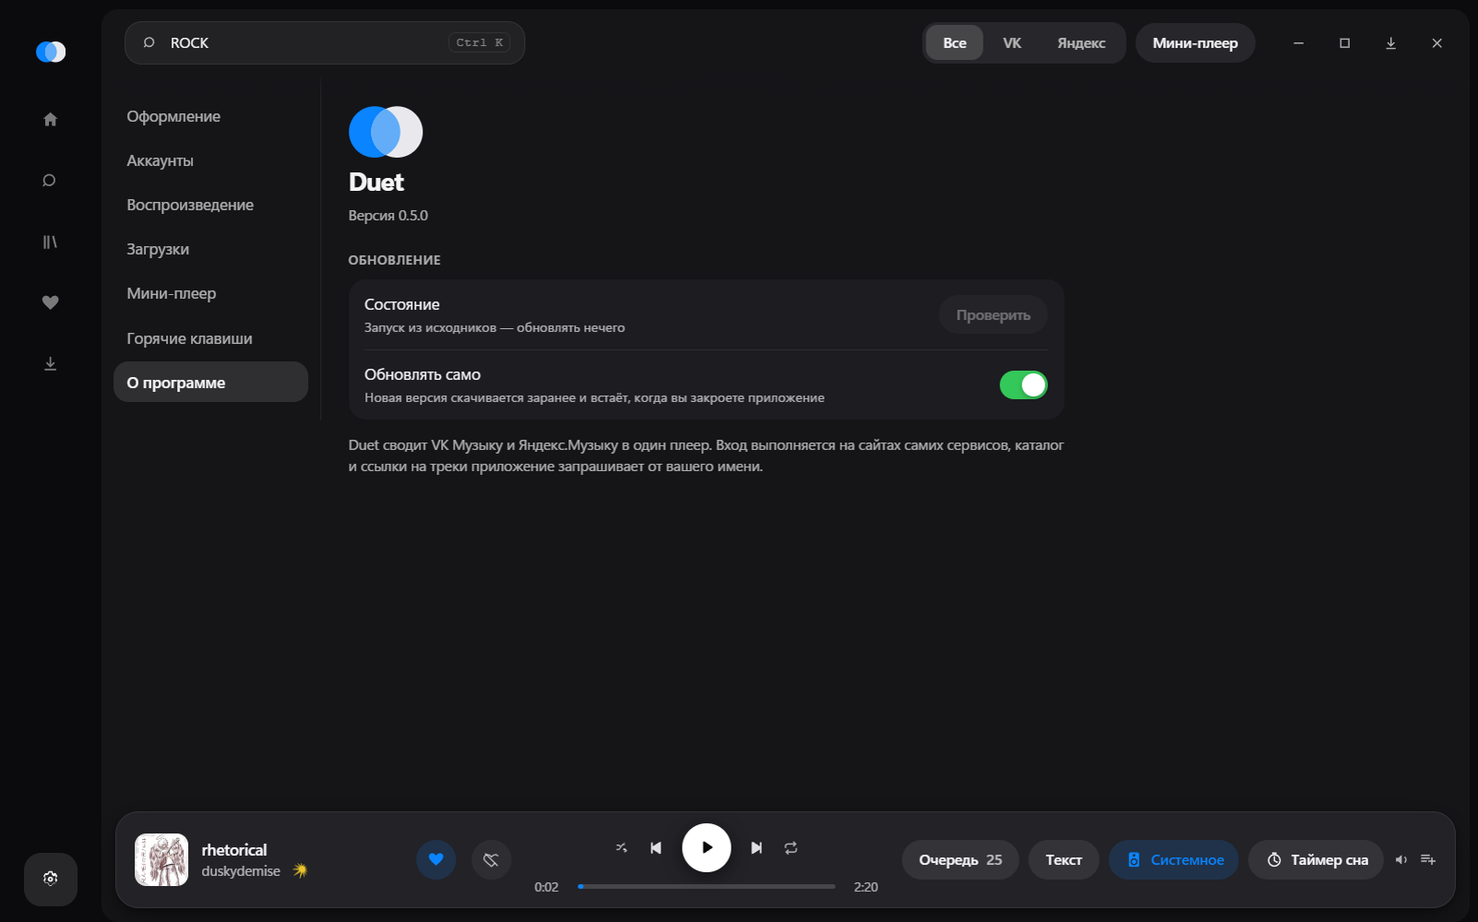
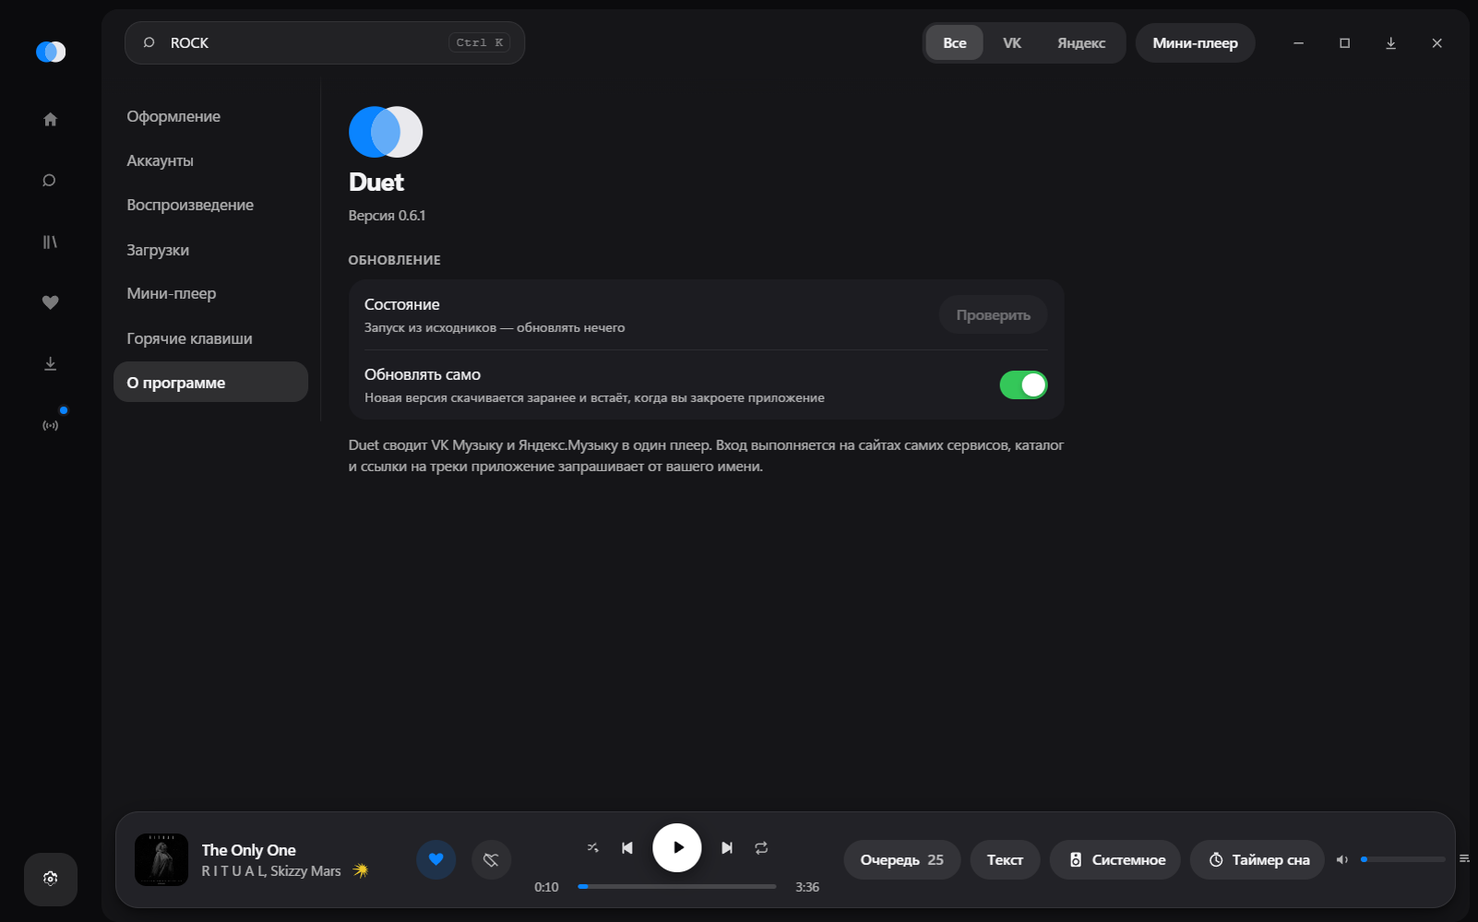
README: новые главные, шторка и язычок, комната Jam
Снимки пересняты: на прежних была старая главная и четыре мини-плеера.
Код приглашения и пропуск на снимках выдуманные, а комната Jam открыта
на своём ретрансляторе — README публичный.

diff --git a/README.md b/README.md
@@ -18,6 +18,8 @@
   сервисов. Начинается с неё же и продолжается, уходя всё дальше.
 - **Настройка волны** у Яндекса — настроение, язык и подбор. Варианты берутся
   у самой станции, а не записаны в приложении.
+- **Шесть видов главной** — от «Волны во весь экран» с веером обложек до
+  «Дашборда», где всё видно сразу, и «Дуэта», где станцию выбирают два круга.
 - **Свой плеер.** Очередь, перемешивание, повтор, перетаскивание треков —
   очередь одна на оба сервиса и не сбрасывается при переключении экранов.
 - **Текст песни** с подсветкой строки — слова ищутся у обоих сервисов и в
@@ -28,19 +30,49 @@
 - **«Нравится» и «не нравится»** у обоих сервисов.
 - **Скачивание** с обоих сервисов, в том числе автоматическое, с лимитом места
   и выбором папки. Скачанное играет без сети.
-- **Мини-плеер поверх окон** — четыре вида, с настройкой позиции, прозрачности,
-  раскрытия по наведению и того, что делает двойной щелчок.
+- **Мини-плеер поверх окон** — шесть видов, включая шторку у верхнего края
+  экрана и язычок у бокового, с настройкой позиции, прозрачности, раскрытия по
+  наведению и того, что делает двойной щелчок. По желанию держится и над
+  полноэкранными играми и видео.
 - **Оформление под себя** — тема, цвет акцента, плотность списков, количество
   движения, вид главной и вид плеера.
 - **Свои плейлисты** — единственное место, где треки VK и Яндекса лежат в одном
-  списке: сервисы чужие треки не принимают.
+  списке: сервисы чужие треки не принимают. «Похожее» сохраняется в такой
+  плейлист одной кнопкой.
 - **Слушать вместе** — приглашение по ссылке: второй слушатель подхватывает ваш
   трек с вашей секунды и идёт следом.
-- **Duet Jam** — общая сессия по второй, отдельной ссылке: участники сами
-  добавляют треки в очередь и переключают. Ссылку можно сменить одной кнопкой.
+- **Duet Jam** — общая комната по второй, отдельной ссылке: участники
+  добавляют треки, переставляют и убирают их из очереди и переключают — сколько
+  разрешит ведущий. Видно, кто в комнате и кто что предложил. Ссылку можно
+  сменить одной кнопкой.
 - **Обновление с GitHub** — само, при выходе из приложения.
 - Таймер сна (с усыплением компьютера), выбор устройства вывода, глобальные
-  горячие клавиши, автозапуск, статус в Discord.
+  горячие клавиши, автозапуск, статус в Discord (выключается).
+
+## Главная
+
+Шесть видов на выбор. По умолчанию — **«Волна во весь экран»** (снимок в самом
+начале): станция занимает первый экран, играющая обложка лежит веером с двумя
+следующими, а под кнопками — что заиграет дальше.
+
+<table>
+  <tr>
+    <td width="50%" valign="top">
+      <img src="docs/screens/home-dash.png" alt="Главная: дашборд" width="100%"><br>
+      <b>Дашборд</b> — всё сразу: волна, что играет и что дальше, избранное,
+      плейлисты и скачанное плитками.
+    </td>
+    <td width="50%" valign="top">
+      <img src="docs/screens/home-duet.png" alt="Главная: дуэт" width="100%"><br>
+      <b>Дуэт</b> — станцию выбирают два круга сервисов, а «Обе» — их
+      пересечение.
+    </td>
+  </tr>
+</table>
+
+Ещё три — «Спокойный», «Обложка во весь экран» и «Списком» — для тех, кому
+крупная волна мешает или, наоборот, мала. На узком окне круги «Дуэта» не
+уезжают под текст, а уменьшаются вместе с окном.
 
 ## Библиотека
 
@@ -53,6 +85,16 @@
 скачивание, сердечко. Значок сервиса показывает, откуда трек, а фильтр в
 титульной строке оставляет на экране только VK или только Яндекс — сразу на
 всех экранах, а не на том, где его переключили.
+
+Обход фонотеки сверяется с тем, сколько треков насчитал сам сервис. Если
+какая-то страница не пришла, прежний список остаётся на месте: неполный
+список, принятый за полный, хуже старого — лайки из него молча пропадали бы и
+после перезапуска. Кнопка «Обновить» рядом с заголовком перечитывает оба
+сервиса заново, а раз в четверть часа Duet сам спрашивает их, не остался ли
+список неполным, — и в сеть идёт, только если остался.
+
+Плейлист без своей обложки показывается обложкой первого трека — так их
+проще различать в сетке, чем по одинаковым заглушкам.
 
 ## Поиск
 
@@ -94,7 +136,8 @@
 ## Оформление
 
 Тема — светлая, тёмная или вслед за Windows. Меняется сразу и в мини-плеере
-тоже.
+тоже. В светлой теме волна на главной — не тёмная плита, а бумага,
+подкрашенная обложкой.
 
 ![Светлая тема](docs/screens/home-light.png)
 
@@ -153,7 +196,28 @@
       <b>Обложка</b> — почти одна картинка, подпись поверх неё.
     </td>
   </tr>
+  <tr>
+    <td valign="top">
+      <img src="docs/screens/mini-notch.png" alt="Мини-плеер: шторка" width="100%"><br>
+      <b>Шторка</b> — полоска у верхнего края экрана. Наведёшь — раскрывается в
+      плеер; сменится трек — на пару секунд выглядывает строкой «что заиграло».
+    </td>
+    <td valign="top">
+      <img src="docs/screens/mini-side.png" alt="Мини-плеер: язычок" width="34%"><br>
+      <b>Язычок</b> — то же у левого или правого края, вертикально и с
+      громкостью.
+    </td>
+  </tr>
 </table>
+
+Шторку и язычок нельзя утащить — они срастаются с краем экрана. Пока они
+свёрнуты, мышь проходит сквозь них насквозь: полоска лежит над краем чужого
+окна, над его заголовком и полосой прокрутки, и не должна их заслонять.
+
+Если плиту перекрывает игра или видео во весь экран, включите «Поверх
+полноэкранных приложений»: Duet будет поднимать мини-плеер обратно, не забирая
+фокус. Игру в эксклюзивном полноэкранном режиме не перекрывает ничто — у неё
+стоит выбрать «окно без рамки».
 
 ![Настройки мини-плеера](docs/screens/settings-mini.png)
 
@@ -208,10 +272,10 @@
 восстанавливает поток и говорит об этом, а сдаётся только через две минуты
 безуспешных попыток.
 
-У гостя перелистывание отключено — очередь чужая, и «следующий» сбивал бы с
-толку. Его пауза означает «подключиться заново»: чаще всего её жмут именно
-тогда, когда звук разошёлся. Следование прекращается, когда гость включает
-что-то своё.
+У гостя по обычной ссылке перелистывание отключено — очередь чужая, и
+«следующий» сбивал бы с толку. Его пауза означает «подключиться заново»: чаще
+всего её жмут именно тогда, когда звук разошёлся. Следование прекращается,
+когда гость включает что-то своё.
 
 ## Duet Jam
 
@@ -229,6 +293,28 @@
 бы нечем. «Сменить ссылку» выдаёт новый пропуск: прежние ссылки участников
 перестают работать сразу, а слушатели остаются на месте и музыка не прерывается.
 
+У сессии свой экран — комната.
+
+![Duet Jam](docs/screens/jam.png)
+
+Сверху — кто в комнате и что играет, слева — ссылки и права, справа — общая
+очередь с подписью, кто что предложил. Её перетаскивают мышью (или Alt+↑↓) и
+чистят крестиком. Ниже — лента «Что происходит»: кто пришёл, ушёл, добавил,
+переставил.
+
+Что можно участникам, решает ведущий двумя переключателями: переключать треки
+и менять очередь. Добавлять можно всегда — ради этого ссылку участника и дают.
+
+Ретранслятор знает только, сколько человек подключено, но не кто они. Поэтому
+участник представляется сам: называет имя, войдя, и потом раз в полминуты;
+кто замолчал на 75 секунд, считается ушедшим, даже если не успел попрощаться.
+Слушатели по обычной ссылке ничего не шлют — права голоса у них нет, — и в
+комнате видны числом «+N».
+
+Лента хранит смысл, а не готовую фразу: ведущий читает «Вы добавили»,
+участник — «Ведущий добавил», а про других — «Маша предлагает». Фразу
+собирает тот, кто смотрит, и угадывать род по имени не приходится.
+
 Играет всё равно только у ведущего — он один, у кого есть звук и очередь.
 Поэтому участники не меняют состояние, а просят, и ретранслятор их просьбы
 только пересылает: второго источника правды не заводится, а значит, нечему и
@@ -236,7 +322,11 @@
 
 Трек едет описанием, а не номером. Номера у сервисов свои, и добавленный из VK
 трек нечем открыть тому, у кого только Яндекс, — поэтому ведущий ищет
-предложенное у себя тем же поиском, которым один сервис выручает другой.
+предложенное у себя тем же поиском, которым один сервис выручает другой. В
+ленту событие попадает, только если трек и правда встал в очередь.
+
+Если ретранслятор перестал отвечать, ведущий видит это в комнате: участники
+узнают об обрыве по своему потоку, а ему сказать об этом больше некому.
 
 Ретранслятор — [`server/relay.mjs`](server/relay.mjs), без зависимостей и без
 хранилища; как поднять его на своём сервере, написано в
@@ -272,7 +362,7 @@ main (Node)                     renderer
 ├── player/engine.ts  очередь и транспорт
 ├── downloads/        загрузки и HLS
 ├── library/          свои плейлисты и кэш каталога
-├── together/         совместное прослушивание
+├── together/         совместное прослушивание и Duet Jam
 └── updates.ts        обновление с GitHub
 ```
 
@@ -305,8 +395,15 @@ main (Node)                     renderer
 - **Оформление собрано из токенов, движение — из атрибутов.** Компоненты не
   знают ни цветов, ни длительностей: и светлая тема, и выбор акцента, и выбор
   анимаций меняют значения, а не правила. Отдельно живут поверхности «на
-  обложке» — волна и полноэкранный плеер остаются тёмными в любой теме, потому
-  что лежат на самой картинке.
+  обложке» — полноэкранный плеер и мини-плеер «Обложка» остаются тёмными в
+  любой теме, потому что текст лежит на самой картинке. Перестановку очереди
+  и появление строк ведёт Framer Motion, и он слушается той же настройки
+  движения, что и CSS.
+- **Шторка шире, чем выглядит.** Windows не держит честно окно в несколько
+  точек шириной: окно в семь точек система делает нулевым, а нулевое Chromium
+  перестаёт рисовать — и язычок не мог потом раскрыться. Поэтому окно у края
+  всегда с запасом, прозрачный запас пропускает мышь насквозь, а наведение
+  считается по форме, о которой сообщает страница, а не по окну.
 - **Значок в трее рисуется, а не лежит файлом.** Марка Duet — два круга, и в
   трее она считается теми же формулами, что и в окне: иначе цвет менялся бы
   только в половине мест.
